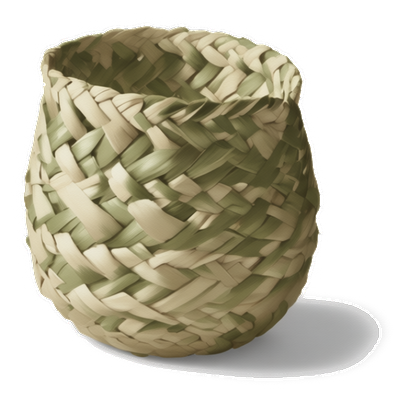
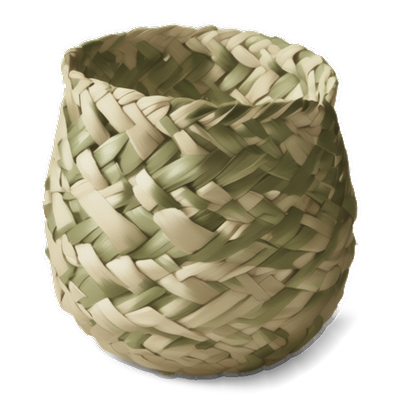
fix(art): 編み籠を中央へ戻し、影を紙への乗算に戻す
この絵の落ち影は紙より40以上暗く、明度だけで芯を決めると籠と地続きの塊になっていた。
そのため影が不透明な灰色の楕円として残り（縁が断ち切られたように見える）、中央合わせと
倍率まで影ごみで決まって籠が28px左へ寄っていた。

影は紙を暗くしただけなので無彩色。彩度で芯から外せる（籠46に対し影1）。card_art.pyへ
--neutral-shadowを足し、編み籠のレシピで16を渡す。toleranceを上げる手は使えない——影は
落ちるが、同時に籠の明るい葉が芯から外れて白く抜ける。

diff --git a/tools/comfyui/card_art.py b/tools/comfyui/card_art.py
@@ -115,7 +115,7 @@ def bounds(mask: np.ndarray) -> tuple[int, int, int, int]:
 
 
 def fit_object(image: Image.Image, size: int, tolerance: float, edge: float, shadow: float,
-               reach: float, reserve: float = 0) -> np.ndarray:
+               reach: float, reserve: float = 0, neutral: float = 0) -> np.ndarray:
     """物だけを切り出し、正方形のキャンバスの中央へ、長辺がキャンバスに収まる大きさで置く。
 
     中央に合わせるのも、大きさを決めるのも、影ではなく物そのもの。影は片側にしか出ないので、影ごと
@@ -127,14 +127,16 @@ def fit_object(image: Image.Image, size: int, tolerance: float, edge: float, sha
     縁へ滲み出て、紙の上に白い輪郭が残る。
 
     reserveは、後から足すもの（drop_shadow）のために四辺へ余分に空けておく幅。
+    neutralは影を芯から外すための彩度のしきい値（separate参照）。**濃い影を持つ絵ではこれが要る**
+    ——影が芯に入ると、上の「影ではなく物そのもの」が成り立たなくなる。
     """
     rgb = np.asarray(image, dtype=np.float64)
     margin = max(edge, reach, OBJECT_SLACK, reserve)
-    core, _ = separate(rgb, tolerance, 0, 0, 1)
+    core, _ = separate(rgb, tolerance, 0, 0, 1, neutral)
     left, top, right, bottom = bounds(core)
     scale = (size - margin * 2) / max(right - left, bottom - top)
 
-    alpha, premultiplied = separate(rgb, tolerance, edge / scale, shadow, reach / scale)
+    alpha, premultiplied = separate(rgb, tolerance, edge / scale, shadow, reach / scale, neutral)
     pad = int(np.ceil(margin / scale))
     box = (max(left - pad, 0), max(top - pad, 0),
            min(right + pad, image.width), min(bottom + pad, image.height))
@@ -197,7 +199,7 @@ def alpha_from_luma(rgb: np.ndarray, white: float, opaque: float) -> np.ndarray:
 
 
 def separate(rgb: np.ndarray, tolerance: float, edge: float, shadow: float, reach: float,
-             ) -> tuple[np.ndarray, np.ndarray]:
+             neutral: float = 0) -> tuple[np.ndarray, np.ndarray]:
     """絵を紙・物・影に分け、不透明度と、乗算済みの前景色を返す。
 
     **返すのは観測された色ではなく、紙を取り除いた前景の色。** 輪郭の画素は生成時の紙と物が混ざった
@@ -216,6 +218,12 @@ def separate(rgb: np.ndarray, tolerance: float, edge: float, shadow: float, reac
     「明るいが背景ではない」場所を残すため）不透明にする。芯の外側はedge幅だけ、紙から物までどれだけ
     寄ったかで薄くする。人工的な傾斜を足すより輪郭が素直になる。
 
+    **濃い影は芯に入る。** 明度だけで芯を決めるので、紙をtolerance以上暗くする影は物と地続きの塊に
+    なり、不透明な灰色として残ったうえ、fit_objectの中央合わせと倍率まで影ごみで決まってしまう。
+    neutralを渡すと、彩度がそれ未満の暗い画素を芯から外す——影は紙を暗くしただけなので無彩色で、
+    色のある物とは彩度で分かれる（実測で籠46に対し影1）。物の内側の無彩色な場所は穴埋めで残るので、
+    影響を受けるのは輪郭の外に続く影だけ。**無彩色の物（石）には使えない**ので既定は0（外さない）。
+
     **必ず原寸の絵に対して呼ぶこと。** 物の周りだけを切り出した絵に渡すと、紙の明るさを測る外周に
     物や影が入って狂う。
     """
@@ -223,7 +231,10 @@ def separate(rgb: np.ndarray, tolerance: float, edge: float, shadow: float, reac
     paper_rgb = paper_colour(rgb)
     paper = max(float(paper_rgb @ np.array([0.299, 0.587, 0.114])), 1.0)
 
-    core = binary_fill_holes(luma <= paper - tolerance)
+    dark = luma <= paper - tolerance
+    if neutral > 0:
+        dark &= rgb.max(axis=2) - rgb.min(axis=2) >= neutral
+    core = binary_fill_holes(dark)
     regions, count = label(core)
     if count:
         # 小さな塊は落とす。文字の消し残りや、2つ目に描かれてしまった物を持ち込まないため。
@@ -321,6 +332,9 @@ def main() -> None:
     parser.add_argument("--edge", type=float, default=4, help="background: 物の輪郭が滲む幅（px）")
     parser.add_argument("--shadow", type=float, default=1.0, help="background: 影の濃さ。0で影を捨てる")
     parser.add_argument("--reach", type=float, default=24, help="background: 影が届く範囲（物からのpx）")
+    parser.add_argument("--neutral-shadow", type=float, default=0,
+                        help="background: 彩度がこれ未満の暗い画素を影と見なして芯から外す。"
+                        "無彩色の物には使えない")
     parser.add_argument("--drop-shadow", type=float, default=0,
                         help="輪郭から落ち影を描く濃さ。0で描かない（絵に影があるときは不要）")
     parser.add_argument("--drop-offset", type=float, default=10, help="落ち影を右下へずらす量（px）")
@@ -375,7 +389,7 @@ def main() -> None:
         # ぼかした影は輪郭から offset + blur*2 ほど広がる。そのぶんを四辺へ空けておく。
         reserve = args.drop_offset + args.drop_blur * 2 if args.drop_shadow else 0
         rgba = fit_object(image, int(args.size), args.tolerance, args.edge, args.shadow,
-                          args.reach, reserve)
+                          args.reach, reserve, args.neutral_shadow)
         if args.drop_shadow:
             rgba = drop_shadow(rgba, args.drop_shadow, args.drop_offset, args.drop_blur)
 
@@ -402,6 +416,7 @@ def main() -> None:
            if args.size == "card" and args.mode == "luma" else {}),
         **({"dropShadow": args.drop_shadow, "dropOffset": args.drop_offset,
             "dropBlur": args.drop_blur} if args.drop_shadow else {}),
+        **({"neutralShadow": args.neutral_shadow} if args.neutral_shadow else {}),
         **({"saturation": args.saturation} if args.saturation != 1.0 else {}),
         **({"gamma": args.gamma} if args.gamma != 1.0 else {}),
     }

diff --git a/tools/comfyui/build.py b/tools/comfyui/build.py
@@ -215,6 +215,7 @@ def main() -> None:
                     *(["--edge", str(card["edge"])] if "edge" in card else []),
                     *(["--shadow", str(card["shadow"])] if "shadow" in card else []),
                     *(["--reach", str(card["reach"])] if "reach" in card else []),
+                    *(["--neutral-shadow", str(card["neutralShadow"])] if "neutralShadow" in card else []),
                     *(["--white", str(card["white"])] if "white" in card else []),
                     *(["--opaque", str(card["opaque"])] if "opaque" in card else []),
                     *(["--feather", str(card["feather"])] if "feather" in card else []),

diff --git a/tools/comfyui/README.md b/tools/comfyui/README.md
@@ -62,6 +62,11 @@ python build.py recipes/medic.json
   実際の明度の落ち方に沿って薄くします。人工的な傾斜を足すより輪郭が素直になります。
 - **中央合わせと倍率は物そのもので決める**。影ごと外接矩形を取ると、影の出る向きで物が中央から
   ずれ、影の大きさで物の大きさが変わってしまいます。
+- **濃い影は `--neutral-shadow` で芯から外す**。紙より `--tolerance` 以上暗い影は、明度だけでは物と
+  区別が付かず、物と地続きの芯になります。こうなると不透明な灰色の楕円として残り（縁が断ち切られた
+  ように見えます）、上の「物そのもので決める」も崩れます（編み籠で 28px 左へ寄りました）。影は紙を
+  暗くしただけなので**彩度で分かれます**（籠 46 に対し影 1）。`--tolerance` を上げて落とそうとすると、
+  物の明るい部分まで芯から外れて白く抜けます。**無彩色の物には使えません**。
 
 ポートレートのように背景ごと紙へ溶かしたい絵は `--mode luma`（明るい画素ほど透かす）を使います。
 
